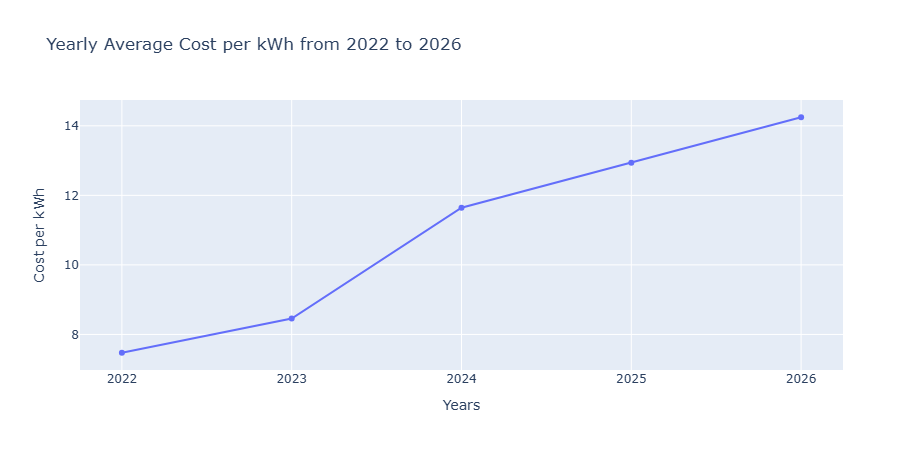
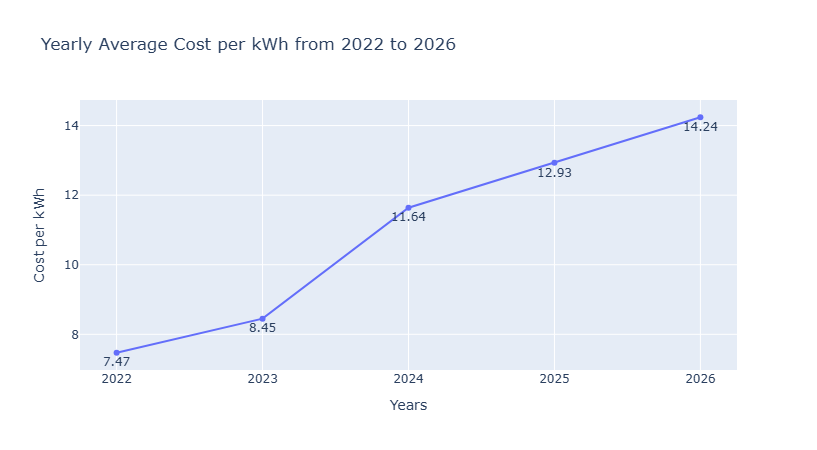
added label to chart, revised readme

diff --git a/README.md b/README.md
@@ -2,16 +2,18 @@
 
 **Context:** During the 2022 lockdown period, meter readings for my household were not regularly collected. As a result, some bills were delayed and accumulated into later billing periods. This explains the unusually high bill in May of 2022 and the missing records around this period. The data for 2026 is also limited from January to July. These circumstances were considered during the interpretation of data.
 
+**Cost per kWh** The cost per kWh was derived from the overall amount due divided by the kWh consumption.
+
 ---
 
 ## This analysis aims to answer the questions:
 
-### 1. Does my cost per kWh appear to be increasing or decreasing?
+**1. Does my cost per kWh appear to be increasing or decreasing?**
 ![Yearly Average](/images/q1-yearly.png) ![Monthly Cost per kWh](/images/q1-monthly.png)
-> Based on the yearly average of the cost per kWh, the data shows an overall upward trend from 2022 to 2026. The average cost increased from ₱7.47/kWh in 2022 to ₱14.25/kWh in 2026. Although the monthly costs per kWh shows some fluctuations, the yearly average still increased each year.  
+>Based on the yearly average of the cost per kWh, the data shows an overall upward trend from 2022 to 2026. The average cost increased from ₱7.47/kWh in 2022 to ₱14.25/kWh in 2026. Although the monthly costs per kWh shows some fluctuations, the yearly average still increased each year.  
 
-### 2. Does my electricity consumption appear to be increasing or decreasing?
-  
+**2. Does my electricity consumption appear to be increasing or decreasing?**
 
-### 3. Am I using less electricity but paying more per kWh?
+
+**3. Am I using less electricity but paying more per kWh?**
 
